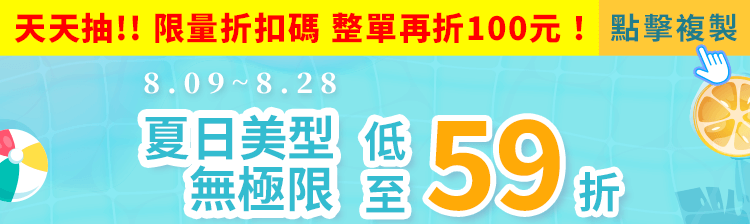
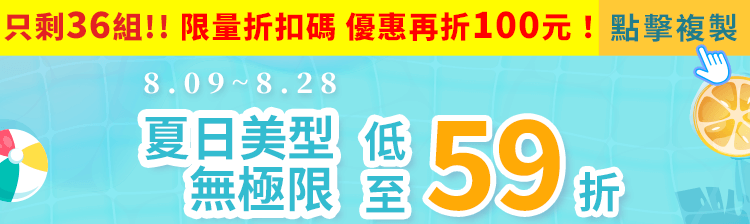
20240821_add popup draw

Changed region(s): [[0.0, 0.0312, 0.7973, 0.2188]]

diff --git a/js/all.js b/js/all.js
@@ -18,4 +18,26 @@ $(document).ready(function () {
         copybtn("24ns08ss");
     });
 
+
+    //draw popup視窗的copy折扣碼
+    function popup_copy() {
+        navigator.clipboard.writeText("202408SS");
+        confirm(`恭喜您成功複製轉盤折扣碼！\n請於購物車「優惠代碼」欄位輸入，\n即享最高會員優惠後再折$200元\n優惠代碼：202408SS`)
+    }
+
+    const Urlhash = location.hash;
+    if (Urlhash == "#draw") {
+        let drawModal = new bootstrap.Modal(document.getElementById("draw_popup"));
+        //一進入畫面就顯示 draw popup
+        drawModal.show();
+        setTimeout(() => {
+            $("#draw_gif").attr("src", "img/popup_copy.png");
+            $("#draw_gif").css("cursor", "pointer");
+            $("#draw_gif").on("click", function () {
+                popup_copy();
+                drawModal.hide();
+            });
+        }, 6000);
+    } 
+
 });
